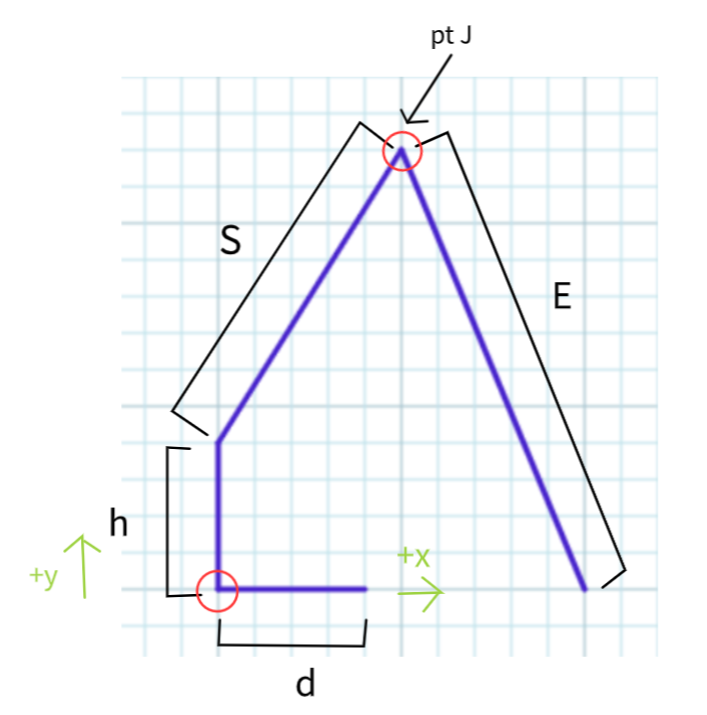
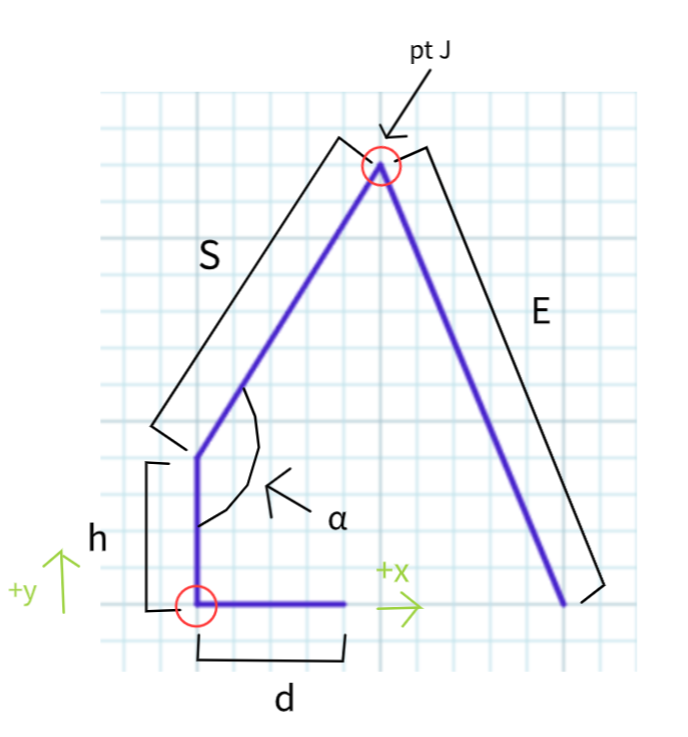
Updated Writeup

Changed region(s): [[0.0305, 0.0308, 0.9462, 0.9846], [0.4273, 0.7385, 0.4578, 0.7692]]

diff --git a/Robotic_Arm/robotic_arm.html b/Robotic_Arm/robotic_arm.html
@@ -4,6 +4,7 @@
     <meta charset="UTF-8">
     <meta name="viewport" content="width=device-width, initial-scale=1.0">
     <link href="https://fonts.googleapis.com/css2?family=Baloo+2&display=swap" rel="stylesheet">
+    <script src="https://kit.fontawesome.com/0bddf697eb.js" crossorigin="anonymous"></script>
     <title>Robotic Arm</title>
     <style>
         * {
@@ -28,6 +29,11 @@
         .title {
             margin-top: 3vh;
             text-align: center;
+            display: flex;
+            align-items: center;
+        }
+        .title h1 {
+            flex-grow: 6;
         }
         .sub-titles {
             margin-left: 5vh;
@@ -53,13 +59,69 @@
             text-align: center;
             margin-bottom: 4vh;
         }
+        .nav-links{
+            height: 30vh;
+            color: orange;
+            position: fixed;
+            bottom: 2vh;
+            right: 1vh;
+        }
+        .nav-links i {
+            position: absolute;
+            bottom: 0;
+            right: 0;
+        }
+        #box {
+            width: 100%;
+            height: 100%;
+            display: flex;
+            flex-direction: column-reverse;
+        }
+        .nav-links ul {
+            font-size: 30px;
+            display: flex;
+            flex-direction: column-reverse;
+            list-style: none;
+            text-decoration: none;
+            position: relative;
+            bottom: 10vh;
+        }
+        .keywords {
+            display: none;
+        }
+        .nav-links li{
+            border-radius: 25px;
+            margin: 5px;
+            padding: 10px;
+            text-align: center;
+            background-color: orange;
+        }
+        .show {
+            display: block;
+            color: red;
+        }
+        a {
+            color: white;
+            text-decoration: none;
+        }
     </style>
     <script src="https://polyfill.io/v3/polyfill.min.js?features=es6"></script>
     <script id="MathJax-script" async src="https://cdn.jsdelivr.net/npm/mathjax@3/es5/tex-mml-chtml.js"></script>
 </head>
-<body>
+<body></body>
     <div class="title">
         <h1>Robotic Arm</h1>
+    </div>
+    <div class="nav-links">
+        <div id="box">
+            <ul>
+                <div class="keywords">
+                    <li><a href="#Theory">Theory</a></li>
+                    <li><a href="#Important_Components">Important Components</a></li>
+                </div>
+            </ul>
+            <div id="arrow"><i class="fas fa-arrow-alt-circle-up fa-4x" style="cursor: pointer;"></i></div>
+        </div>
     </div>
     <div class="sub-titles">
         <div class="introduction">
@@ -71,7 +133,7 @@
             </p>
         </div>
         <br>
-        <div class="Important_Components">
+        <div id="Important_Components">
             <h2>Important Components</h2>
             <p>
                 An effective robotic arm needs at least a shoulder, elbow, and hand just like a typical human arm.
@@ -114,7 +176,7 @@
             </p>
         </div>
         <br>
-        <div class="theory">
+        <div id="Theory">
             <h2>Theory</h2>
             <p>
                 This following section aims to explain why and how the robotic will be designed.
@@ -595,11 +657,124 @@
                     <b>Figure 3.</b> The shoulder and elbow are connected at a joint. THe shoulder is displaced by a distance h above the ground.
                     The elbow must be longer than the shoulder to reach the ground at distances close to the base support.
                 </div>
+                <p>Consider a simplified diagram of figure 3.</p>
+                <div class="image"><img src="Images/Simplified_Theoretical_Shoulder.PNG"></div>
+                <div class="caption">
+                    <b>Figure 4.</b> the shoulder is displaced h above the ground, smallest radius of the base support is d, the length of the shoulder 
+                    is S, the elbow length is E, the should and E is joined at pt J, the angle between the shoulder and the y-axis &#945; is and 
+                    the origin is placed on the ground directly beneath the base 
+                    support.
+                </div>
+                <p>Consider the mimimum reach of the robotic arm given a constant S, h, and d value.</p>
+                <math xmlns="http://www.w3.org/1998/Math/MathML" display="block">
+                    <mrow>
+                      <msub>
+                        <mi>D</mi>
+                        <mfenced>
+                          <mrow>
+                            <mi>min</mi>
+                          </mrow>
+                        </mfenced>
+                      </msub>
+                      <mo>=</mo>
+                      <mi>d</mi>
+                    </mrow>
+                </math>
+                <br>
+                <p>Let &#945; be no greater than 180&#176;. As such,</p>
+                <math xmlns="http://www.w3.org/1998/Math/MathML" display="block">
+                    <mrow>
+                      <mi>arccos</mi>
+                      <mfenced>
+                        <mrow>
+                          <mfrac>
+                            <mi>h</mi>
+                            <mi>S</mi>
+                          </mfrac>
+                        </mrow>
+                      </mfenced>
+                      <mo>&#x2264;</mo>
+                      <mi>&#x3b1;</mi>
+                      <mo>&#x2264;</mo>
+                      <mn>180</mn>
+                      <mo>&#xb0;</mo>
+                    </mrow>
+                </math>
+                <br>
+                <p>Consider the reach of the robotic arm under all specified conditions above, which is </p>
+                <math xmlns="http://www.w3.org/1998/Math/MathML" display="block">
+                    <mrow>
+                      <mi>D</mi>
+                      <mfenced>
+                        <mrow>
+                          <mi>r</mi>
+                          <mi>e</mi>
+                          <mi>a</mi>
+                          <mi>c</mi>
+                          <mi>h</mi>
+                        </mrow>
+                      </mfenced>
+                      <mo>=</mo>
+                      <mi>S</mi>
+                      <mi>cos</mi>
+                      <mfenced>
+                        <mrow>
+                          <mi>&#x3b1;</mi>
+                          <mo>&#x2212;</mo>
+                          <mn>90</mn>
+                        </mrow>
+                      </mfenced>
+                      <mo>+</mo>
+                      <msqrt>
+                        <mfenced>
+                          <mrow>
+                            <msup>
+                              <mi>E</mi>
+                              <mn>2</mn>
+                            </msup>
+                            <mo>&#x2212;</mo>
+                            <msup>
+                              <mfenced>
+                                <mrow>
+                                  <mi>S</mi>
+                                  <mi>sin</mi>
+                                  <mfenced>
+                                    <mrow>
+                                      <mi>&#x3b1;</mi>
+                                      <mo>&#x2212;</mo>
+                                      <mn>90</mn>
+                                    </mrow>
+                                  </mfenced>
+                                  <mo>+</mo>
+                                  <mi>h</mi>
+                                </mrow>
+                              </mfenced>
+                              <mn>2</mn>
+                            </msup>
+                          </mrow>
+                        </mfenced>
+                      </msqrt>
+                    </mrow>
+                </math>
+                <br>
+                The maximum reach can be determined by taking the the partial of reach with respect to &#945;
             </div>
             <div class = "Claw">
-                
             </div>
          </div>
     </div>
+    <script>
+        const arrowSlide = () => {
+        const arrow = document.getElementById('arrow');
+        const options = document.querySelector('.keywords');
+        
+        arrow.addEventListener('click', () => {
+            options.classList.toggle('show');
+        });
+
+        }
+
+        arrowSlide();
+    </script>
 </body>
 </html>
